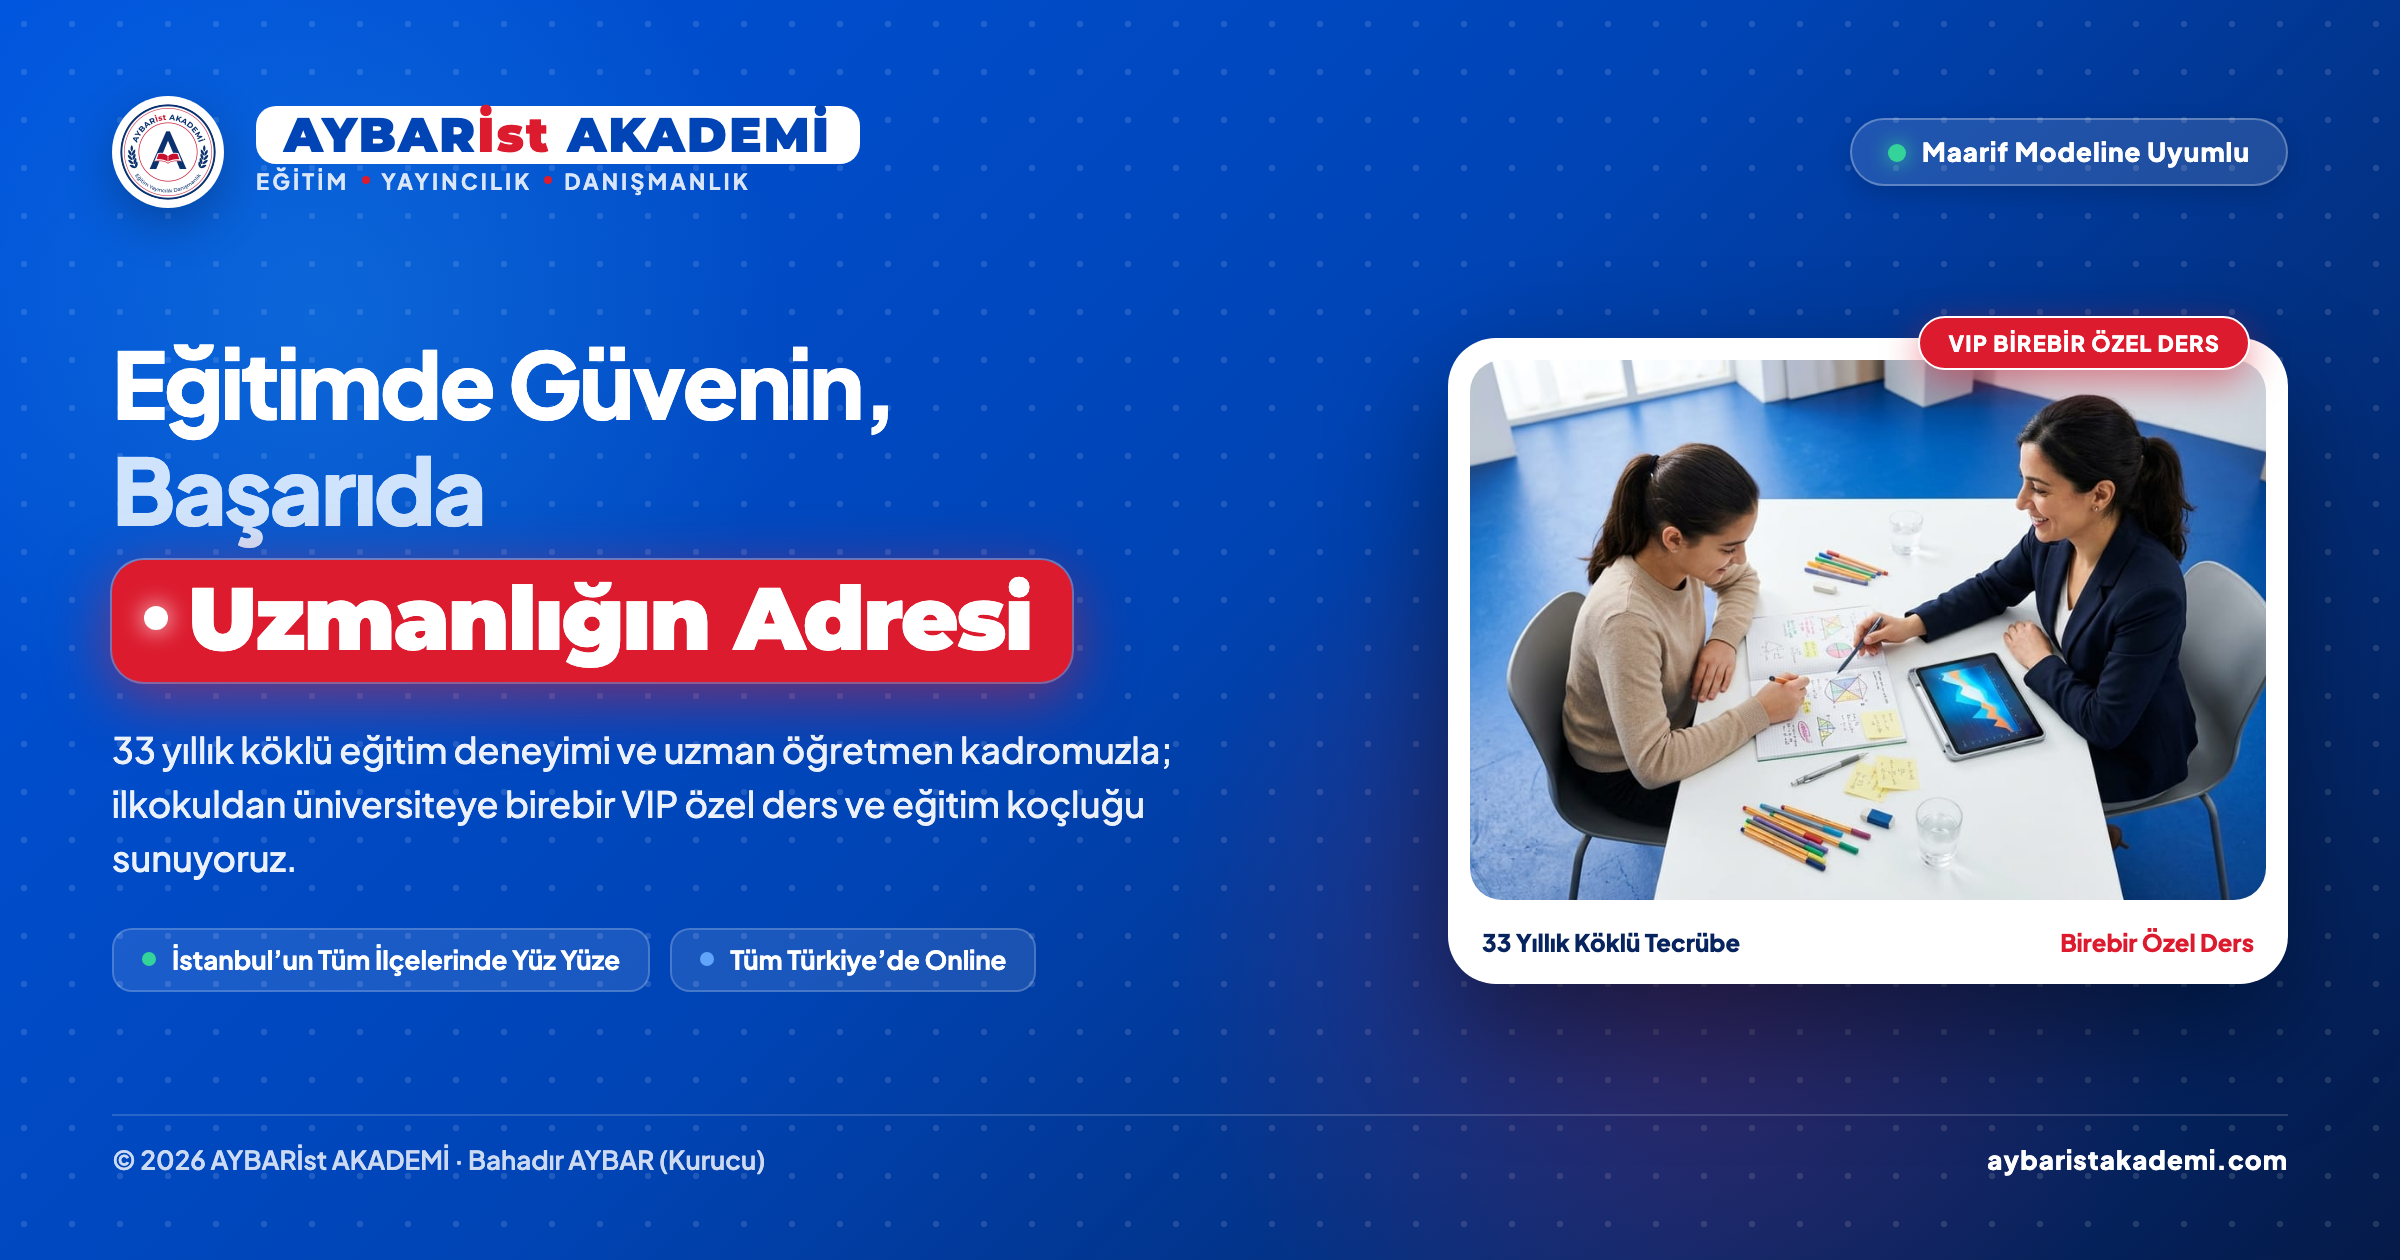
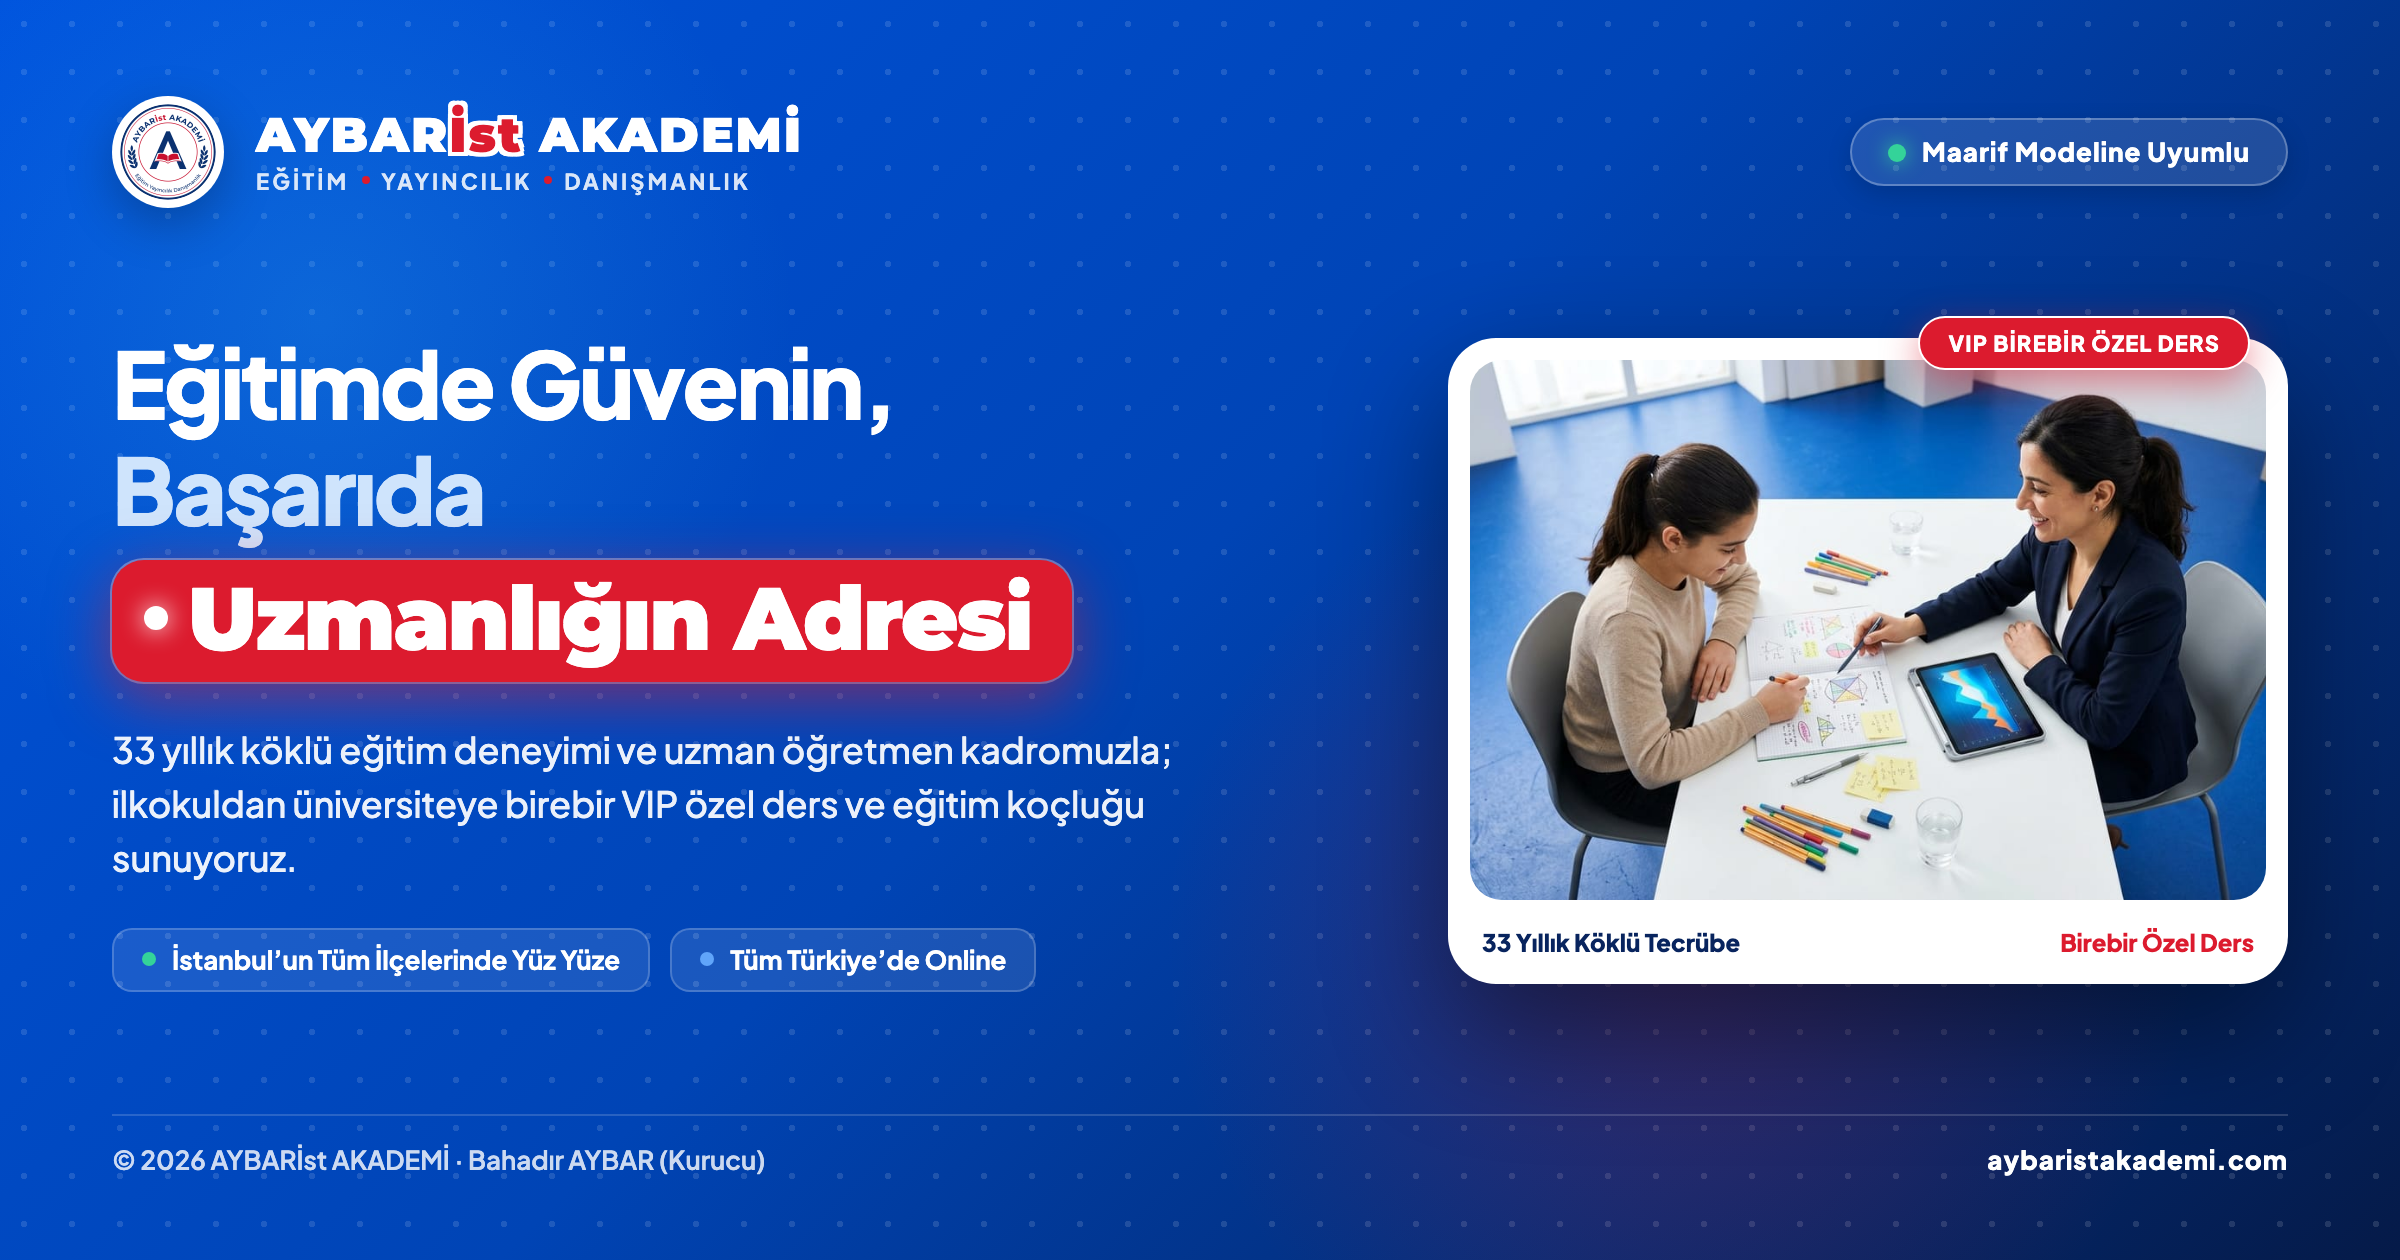
Koyu zeminde marka adı kutusuz: beyaz yazı, kırmızı İst ince konturlu

Changed region(s): [[0.0938, 0.0619, 0.375, 0.1548]]

diff --git a/src/app/globals.css b/src/app/globals.css
@@ -10,12 +10,15 @@
   font-weight: 900;
 }
 
-.brand-on-dark .brand-name {
-  background: #fff;
-  padding: 0 0.28em;
-  border-radius: 0.28em;
-  -webkit-box-decoration-break: clone;
-  box-decoration-break: clone;
+/* Koyu zeminde mavi kısım beyaz olur; İst kırmızı kalır, ince beyaz kontur zeminden ayırır. */
+.brand-on-dark .brand-name > span:nth-child(odd) {
+  color: #fff;
+}
+
+.brand-on-dark .brand-name > span:nth-child(2) {
+  --o: max(0.6px, 0.045em);
+  text-shadow: var(--o) 0 #fff, calc(var(--o) * -1) 0 #fff, 0 var(--o) #fff, 0 calc(var(--o) * -1) #fff,
+    var(--o) var(--o) #fff, calc(var(--o) * -1) var(--o) #fff, var(--o) calc(var(--o) * -1) #fff, calc(var(--o) * -1) calc(var(--o) * -1) #fff;
 }
 
 @layer base {

diff --git a/src/components/brand/BrandText.tsx b/src/components/brand/BrandText.tsx
@@ -31,7 +31,7 @@ function walk(node: React.ReactNode): React.ReactNode {
   return node;
 }
 
-/** Metindeki AYBARİst AKADEMİ adını marka renkleriyle yazar. Koyu zeminde üst öğeye brand-on-dark verilir, ad beyaz zeminde kalır. */
+/** Metindeki AYBARİst AKADEMİ adını marka renkleriyle yazar. Koyu zeminde üst öğeye brand-on-dark verilir. */
 export default function BrandText({ children }: { children: React.ReactNode }) {
   return <>{walk(children)}</>;
 }
